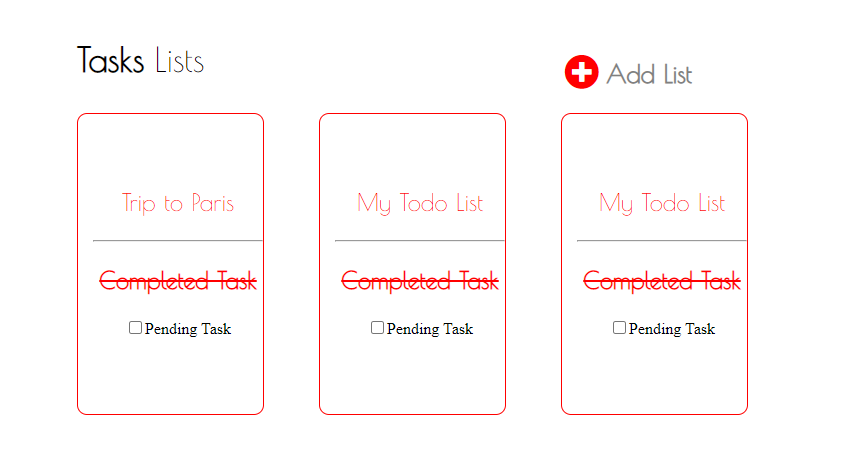
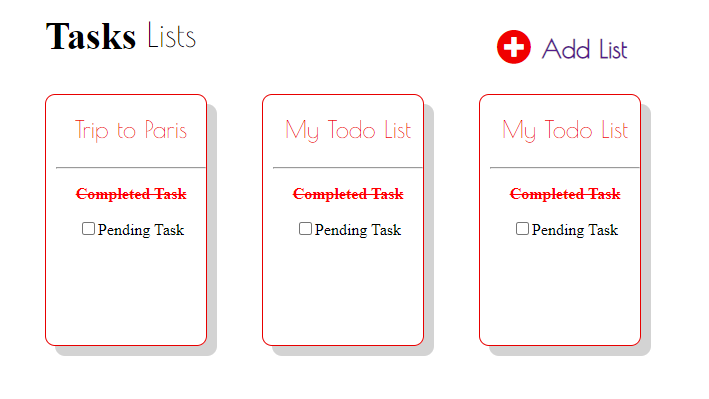
Updated css

diff --git a/index.css b/index.css
@@ -1,46 +1,164 @@
 .parent {
     display: flex;
     margin-top: 0px;
-    margin-left: 400px;
+    margin-left: 420px;
 }
 .child {
-    width: 170px;
+    width: 150px;
     height: 200px;
-    padding-left: 15px;
+    padding-left: 10px;
     margin-right: 55px;
-    border: 1px solid red;
+    border: 1px solid #E80000;
     border-radius: 10px;
-    padding-top: 40px;
+    padding-top: 10px;
     padding-bottom: 40px;
     text-align: center;
+    box-shadow: 10px 10px lightgrey;
+}
+.p_index_body_style2{
+    color:red;
+
+}
+.a_index_body_style {
+    text-decoration: none;
+    color:#F00000;
+    
+}
+.i_index2_style {
+    font-size:30px;
+    color:#F00000;
+    margin-left: 240px;
+    margin-top: 70px;
+}
+.child_index2 {
+    width:280px; 
+    height:240px;
+    padding-left: 14px;
+    margin-right: 55px;
+    border: 1px solid #E80000;
+    border-radius: 10px;
+    padding-top: 10px;
+    padding-bottom: 40px;
+    text-align: center;
+    box-shadow: 10px 10px lightgrey;
+}
+.p_second_index_style  {
+    margin-left: 5px;
+    font-weight: bold;
+    font-size:30px;
+    display: inline-block;
+    margin-top :175px;  
+    font-family: 'Poiret One';
+}
+.p_index_body_style{
+    color:#F00000;
+    font-family:'Poiret One';
+    font-size: 24px;
+    margin-top:10px;
+}
+.a_index_style {
+    font-family:'Poiret One';
+    font-size: 25px;
+    margin-top: 180px;
+    margin-left: 5px;
+    text-decoration: none;
+}
+.i_index_plus_style {
+    font-size:35px;
+    color:#F00000;
+    margin-left: 300px;
+    margin-top: 175px;
+}
+.h1_index_style {
+    font-size:38px;
+    margin-left: 420px;
+    display: inline-block;
+    margin-top :160px;  
+}
+.p_index_style {
+    color:black;
+    margin-left: 10px;
+    font-weight: lighter;
+    font-size:34px;
+    display: inline-block;
+    margin-top :160px;  
+    font-family: 'Poiret One';
+}
+.input_style {
+    border:1px solid #F00000;
+    height:20px;
 }
 .form_style {
-    color:red;
-    border: 1px solid red;
+    color:#F00000;
+    border: 1px solid #F00000;
     display: inline-block;
-    width:380px;
-    height: 180px;
+    width:450px;
+    height: 150px;
     text-align:center;
-    margin-top: 250px;
-    margin-left: 420px;
-    padding-top:30px;
+    margin-top: 100px;
+    margin-left: 400px;
     padding-bottom: 30px;
-    position: relative;
+    background-color: white;
+   }
+   .form_index4_style {
+    color:#F00000;
+    border: 1px solid #F00000;
+    display: inline-block;
+    width:350px;
+    height: 150px;
+    text-align:center;
+    margin-top: 100px;
+    margin-left: 500px;
+    padding-bottom: 30px;
     background-color: white;
    }
 
+   .index4_input_style {
+    border:1px solid #F00000;
+    height:20px;
+   }
 .button_style {
-    background-color: red;
+    background-color: #F00000;
     color:white;
     border-radius: 13px;
     width: 70px;
     height: 30px;
     font-size: large;
-    border: 1px solid red;
+    border: 1px solid #F00000;
     padding-bottom: 5px;
 }
 .p_style {
     color:grey;
+    font-size: x-large;
+    font-weight: 400;
+    margin-top: 24px;
+    margin-left: 10px;
+}
+.a_index2_style {
+    color:#F00000;
+    text-decoration: none;
+    font-size: x-large;
+    font-weight: 400;
+    margin-top: 17px;
+    margin-left: 10px;
+}
+.i_index2_top_style {
+    font-size:34px;
+    color:#F00000;
+    margin-left:500px;
+    margin-bottom: 5px;
+    margin-top:4px;
+    
+}
+.p_index2_style {
+    color:#F00000;
+    font-size: x-large;
+    font-weight: 400;
+    margin-top: 17px;
+    margin-left: 10px;
+}
+.p_index2_style2 {
+    color:red;
     font-size: x-large;
     font-weight: 400;
     margin-top: 17px;

diff --git a/index.html b/index.html
@@ -6,48 +6,33 @@
     <meta name="viewport" content="width=device-width, initial-scale=1.0">
     <title>Document</title>
     <link rel="stylesheet" href="./index.css">
-    <style> 
-    p {
-        color:red;
-        font-size: x-large;
-        font-family: 'Poiret One';
-    }
-    a {
-        text-decoration: none;
-        color:red;
-        font-weight:600;
-    }
-    </style>
-    <link rel="stylesheet" href="https://fonts.googleapis.com/css?family=Abel">
-    <link href='https://fonts.googleapis.com/css?family=Poiret One' rel='stylesheet'>
     <link rel="stylesheet" href="https://fonts.googleapis.com/css2?family=Poiret+One&family=Rajdhani:wght@300&display=swap">
     <link rel="stylesheet" href="https://cdnjs.cloudflare.com/ajax/libs/font-awesome/5.15.4/css/all.min.css">
     <link rel="stylesheet" href="https://cdnjs.cloudflare.com/ajax/libs/font-awesome/4.7.0/css/font-awesome.min.css">
     </head>
-
 <body>
     <div class="main">
-        <h1 style="font-size:38px;margin-left: 400px;display: inline-block;margin-top :160px;">Tasks</h1>  <p style="color:black;margin-left: 10px;font-weight: lighter;font-size:34px;display: inline-block;margin-top :160px;">Lists</p>
-        <i class="fas fa-plus-circle" style="font-size:35px;color:red;margin-left: 360px;margin-top: 175px;"></i>
-        <a href="./index3.html" style="font-family:'Poiret One';font-size: 25px;margin-top: 180px;margin-left: 7px;color:grey">Add List</p></a>
+        <h1 class="h1_index_style">Tasks</h1><p class="p_index_style">Lists</p>
+        <i class="fas fa-plus-circle i_index_plus_style"></i>
+        <p class="p_second_index_style"><a href="./index3.html" class="a_index_style">Add List</p></a>
     </div>
     <div class="parent">
         <div class="child">
-            <p><a href="./index2.html" style="font-weight: 590;">Trip to Paris</a></p>
+            <p class="p_index_body_style"><a href="./index2.html" class="a_index_body_style">Trip to Paris</a></p>
             <hr>
-            <p><del><b>Completed Task</b></del></p>
+            <p class="p_index_body_style2"><del><b>Completed Task</b></del></p>
             <input type="checkbox" name="div1_checkbox">Pending Task
         </div>
         <div class="child">
-            <p>My Todo List</p>
+            <p class="p_index_body_style">My Todo List</p>
             <hr>
-            <p><del><b>Completed Task</b></del></p>
+            <p class="p_index_body_style2"><del><b>Completed Task</b></del></p>
             <input type="checkbox" name="div2_checkbox">Pending Task
         </div>
         <div class="child">
-            <p>My Todo List</p>
+            <p class="p_index_body_style">My Todo List</p>
             <hr>
-            <p><del><b>Completed Task</b></del></p>
+            <p class="p_index_body_style2"><del><b>Completed Task</b></del></p>
             <input type="checkbox" name="div3_checkbox">Pending Task
         </div>
     </div>

diff --git a/index2.html b/index2.html
@@ -18,15 +18,8 @@
     h1 span { 
     background:#fff; 
     padding:0 10px; 
+    }
     
-    }
-    a {
-        text-decoration: none;
-    }
-    p {
-        color:red;
-        font-size: x-large;
-    }
     </style>
     <link rel="stylesheet" href="./index.css">
     <link rel="stylesheet" href="https://cdnjs.cloudflare.com/ajax/libs/font-awesome/5.15.4/css/all.min.css">
@@ -35,18 +28,18 @@
 <body>
     <h1><span>Trip to Paris</a></span></h1>
     <div class="main">
-    <a href="./index.html"><i class="fa fa-arrow-circle-left" style="font-size:30px;color:red;margin-left:500px;margin-bottom: 5px;margin-top:15px;"></i></a>
+    <p class="p_style"><a href="./index.html"><i class="fa fa-arrow-circle-left i_index2_top_style"></i></a></p>
     <p class="p_style">Back</p>
     </div>
     <br>
     <div class="parent">
-        <div class="child" style="width:320px; height:240px;">
-            <p class="p_style" style="color:red">Trip to Paris</p>
+        <div class="child_index2">
+            <p class="p_index2_style">Trip to Paris</p>
             <hr>
-            <p><del><b>Completed Task</b></del></p>
+            <p class="p_index2_style2"><del><b>Completed Task</b></del></p>
             <input type="checkbox" name="div1_checkbox">Pending Task
             <br>
-            <a href="index4.html"><i class="fas fa-plus-circle" style="font-size:30px;color:red;margin-left: 260px;margin-top: 70px;"></i></a>
+            <a href="index4.html"><i class="fas fa-plus-circle i_index2_style"></i></a>
         </div>
       </div>
 </body>

diff --git a/index4.html b/index4.html
@@ -11,8 +11,8 @@
             backdrop-filter: blur(7px);
             background-repeat: no-repeat;
             background-position: center;
-            
-         }
+            padding-top:200px;
+           }
          p{
             font-size: x-large;
         }
@@ -20,9 +20,9 @@
     <link rel="stylesheet" href="./index.css">
 </head>
 <body>
-    <div class="form_style" style="height:200px;">
+    <div class="form_index4_style">
         <p>Add New List</p>
-        <input style="border:1px solid red;height:20px" type="text" name="input_value" id="input_value" value="">
+        <input class="index4_input_style" type="text" name="input_value" id="input_value" value="">
         <br>
         <br>
         <br>

diff --git a/index3.html b/index3.html
@@ -8,9 +8,11 @@
     <style>
         body {
             background-image: url(./index.png);
-            backdrop-filter: blur(7px);
+            backdrop-filter: blur(10px);
             background-repeat: no-repeat;
             background-position: center;
+            padding-top: 250px;
+            margin-top:20px;
             }
         p{
             font-size: x-large;
@@ -21,7 +23,7 @@
 <body>
     <div class="form_style">
         <p>Add New List</p>
-        <input style="border:1px solid red;height:20px" type="text" name="input_value" id="input_value" value="">
+        <input class="input_style" type="text" name="input_value" id="input_value" value="">
         <br>
         <br>
         <br>
